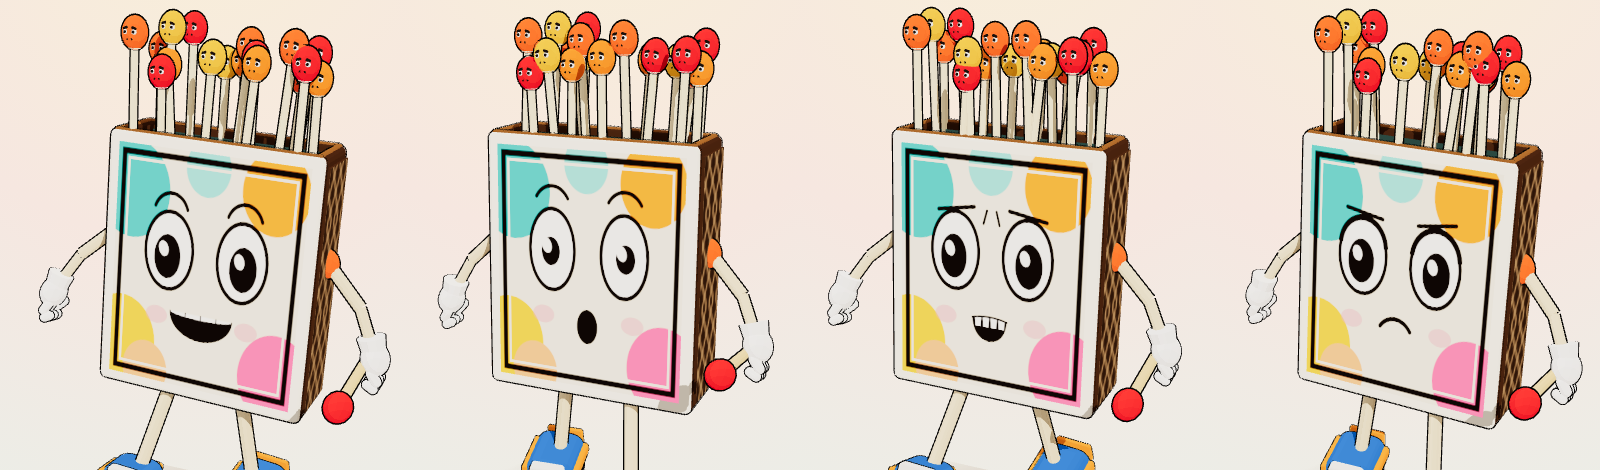
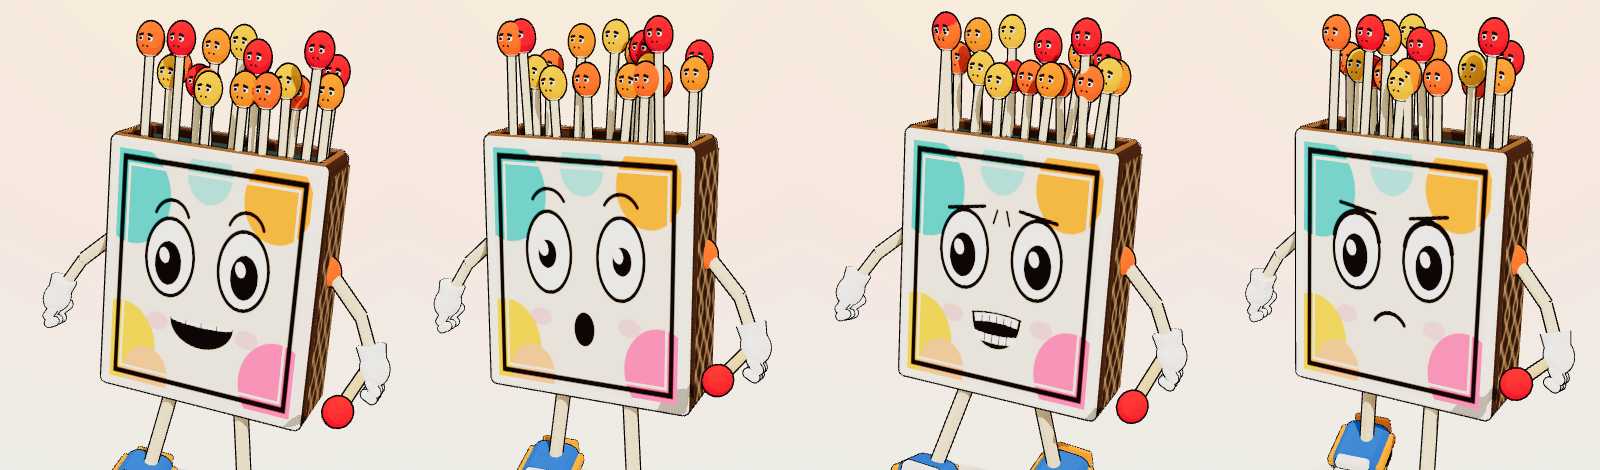
style(matchbox): angrier snarl - wider mouth, teeth on both rows

Changed region(s): [[0.2812, 0.0, 0.75, 1.0], [0.0312, 0.0, 0.25, 1.0], [0.7812, 0.0, 1.0, 1.0]]

diff --git a/dist/matchbox.html b/dist/matchbox.html
@@ -297,22 +297,39 @@ function drawLabel(mode){
   } else if (mode === 'surprise'){
     g.beginPath(); g.ellipse(512, 752, 58, 76, 0, 0, Math.PI * 2); g.fill();
   } else if (mode === 'anger'){
-    // оскал: приоткрытый рот с зубами
+    // широкий оскал: пасть + зубы сверху и снизу
     g.beginPath();
-    g.moveTo(414, 712);
-    g.quadraticCurveTo(512, 690, 610, 712);
-    g.quadraticCurveTo(600, 806, 512, 812);
-    g.quadraticCurveTo(424, 806, 414, 712);
+    g.moveTo(374, 698);
+    g.quadraticCurveTo(512, 674, 650, 698);
+    g.quadraticCurveTo(640, 840, 512, 846);
+    g.quadraticCurveTo(384, 840, 374, 698);
     g.closePath(); g.fill();
+
     g.fillStyle = '#ffffff';
-    for (let i = 0; i < 4; i++){
-      g.beginPath();
-      const bx = 430 + i * 44;
-      g.moveTo(bx, 706); g.lineTo(bx + 36, 706); g.lineTo(bx + 32, 748); g.lineTo(bx + 4, 748);
-      g.closePath(); g.fill();
+    // верхний ряд
+    g.beginPath();
+    g.moveTo(388, 700); g.quadraticCurveTo(512, 680, 636, 700);
+    g.lineTo(630, 736); g.quadraticCurveTo(512, 716, 394, 736);
+    g.closePath(); g.fill();
+    // нижний ряд
+    g.beginPath();
+    g.moveTo(396, 812); g.quadraticCurveTo(512, 832, 628, 812);
+    g.lineTo(632, 776); g.quadraticCurveTo(512, 796, 392, 776);
+    g.closePath(); g.fill();
+
+    // перегородки зубов
+    g.strokeStyle = '#1d1512'; g.lineWidth = 6;
+    for (let i = 1; i < 6; i++){
+      const x = 392 + i * 41;
+      g.beginPath(); g.moveTo(x, 700 + Math.abs(i - 3) * 3); g.lineTo(x - 2, 736); g.stroke();
     }
-    g.strokeStyle = '#1d1512'; g.lineWidth = 8;
-    g.beginPath(); g.moveTo(414, 712); g.quadraticCurveTo(512, 690, 610, 712); g.stroke();
+    for (let i = 1; i < 5; i++){
+      const x = 412 + i * 41;
+      g.beginPath(); g.moveTo(x, 778); g.lineTo(x - 2, 818); g.stroke();
+    }
+    // контур пасти
+    g.lineWidth = 9;
+    g.beginPath(); g.moveTo(374, 698); g.quadraticCurveTo(512, 674, 650, 698); g.stroke();
   } else {                          // печаль
     g.beginPath(); g.arc(512, 786, 104, Math.PI * 1.20, Math.PI * 1.80); g.stroke();
   }

diff --git a/src/matchbox/index.html b/src/matchbox/index.html
@@ -290,22 +290,39 @@ function drawLabel(mode){
   } else if (mode === 'surprise'){
     g.beginPath(); g.ellipse(512, 752, 58, 76, 0, 0, Math.PI * 2); g.fill();
   } else if (mode === 'anger'){
-    // оскал: приоткрытый рот с зубами
+    // широкий оскал: пасть + зубы сверху и снизу
     g.beginPath();
-    g.moveTo(414, 712);
-    g.quadraticCurveTo(512, 690, 610, 712);
-    g.quadraticCurveTo(600, 806, 512, 812);
-    g.quadraticCurveTo(424, 806, 414, 712);
+    g.moveTo(374, 698);
+    g.quadraticCurveTo(512, 674, 650, 698);
+    g.quadraticCurveTo(640, 840, 512, 846);
+    g.quadraticCurveTo(384, 840, 374, 698);
     g.closePath(); g.fill();
+
     g.fillStyle = '#ffffff';
-    for (let i = 0; i < 4; i++){
-      g.beginPath();
-      const bx = 430 + i * 44;
-      g.moveTo(bx, 706); g.lineTo(bx + 36, 706); g.lineTo(bx + 32, 748); g.lineTo(bx + 4, 748);
-      g.closePath(); g.fill();
+    // верхний ряд
+    g.beginPath();
+    g.moveTo(388, 700); g.quadraticCurveTo(512, 680, 636, 700);
+    g.lineTo(630, 736); g.quadraticCurveTo(512, 716, 394, 736);
+    g.closePath(); g.fill();
+    // нижний ряд
+    g.beginPath();
+    g.moveTo(396, 812); g.quadraticCurveTo(512, 832, 628, 812);
+    g.lineTo(632, 776); g.quadraticCurveTo(512, 796, 392, 776);
+    g.closePath(); g.fill();
+
+    // перегородки зубов
+    g.strokeStyle = '#1d1512'; g.lineWidth = 6;
+    for (let i = 1; i < 6; i++){
+      const x = 392 + i * 41;
+      g.beginPath(); g.moveTo(x, 700 + Math.abs(i - 3) * 3); g.lineTo(x - 2, 736); g.stroke();
     }
-    g.strokeStyle = '#1d1512'; g.lineWidth = 8;
-    g.beginPath(); g.moveTo(414, 712); g.quadraticCurveTo(512, 690, 610, 712); g.stroke();
+    for (let i = 1; i < 5; i++){
+      const x = 412 + i * 41;
+      g.beginPath(); g.moveTo(x, 778); g.lineTo(x - 2, 818); g.stroke();
+    }
+    // контур пасти
+    g.lineWidth = 9;
+    g.beginPath(); g.moveTo(374, 698); g.quadraticCurveTo(512, 674, 650, 698); g.stroke();
   } else {                          // печаль
     g.beginPath(); g.arc(512, 786, 104, Math.PI * 1.20, Math.PI * 1.80); g.stroke();
   }
